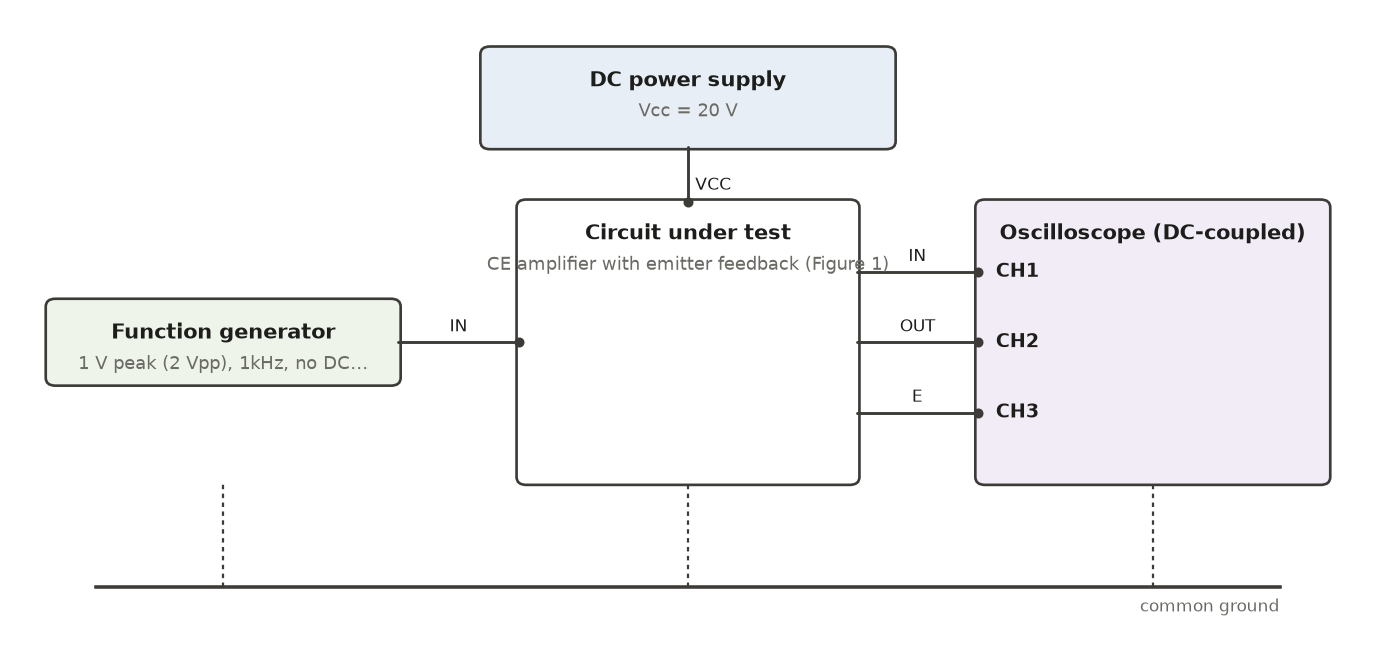
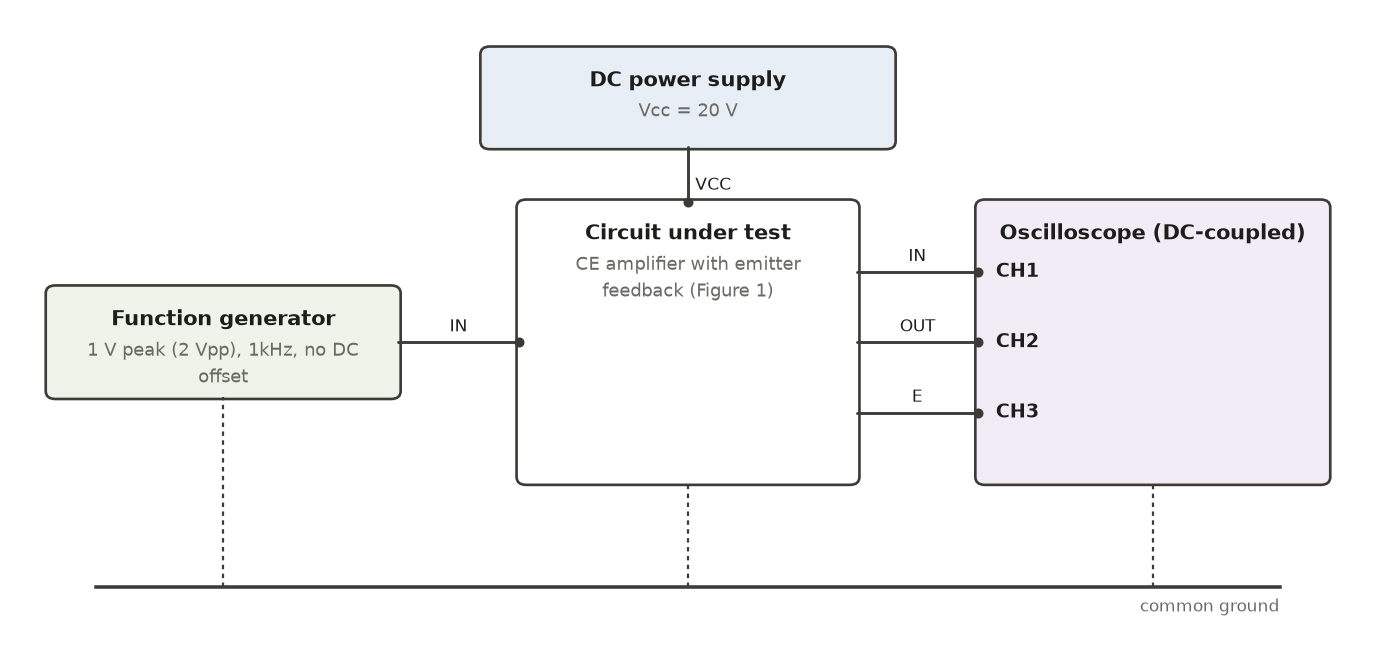
Block diagram: wrap text to the box, ground every source
The circuit-under-test subtitle ran past its box, and the generator text
was cut off at 30 characters. Text now wraps to each box's measured width.
Left-hand sources stopped short of ground (the return ended at the circuit
box's bottom); each now reaches its own box, via a side rail when stacked.

Claude-Session: https://claude.ai/code/session_014e9FWfJ1ndWXWUoB5nQ7B9

Changed region(s): [[0.0312, 0.4275, 0.3125, 0.6107], [0.3438, 0.3664, 0.6562, 0.458]]

diff --git a/blockdiagram.py b/blockdiagram.py
@@ -97,6 +97,31 @@ def from_deck(spec, deck: str, title: str = "") -> TestSet:
 
 # ------------------------------------------------------------------ drawing
 
+def _text_pt(s: str, fontsize: float) -> float:
+    """Rendered width of `s` in points, measured from the font's glyphs."""
+    from matplotlib.font_manager import FontProperties
+    from matplotlib.textpath import TextPath
+    return TextPath((0, 0), s, prop=FontProperties(size=fontsize)).get_extents().width
+
+
+def _fit(text: str, max_pt: float, fontsize: float = 8, max_lines: int = 4) -> list:
+    """Word-wrap `text` so every line renders within `max_pt` points."""
+    lines, cur = [], ""
+    for word in text.split():
+        trial = f"{cur} {word}".strip()
+        if cur and _text_pt(trial, fontsize) > max_pt:
+            lines.append(cur)
+            cur = word
+        else:
+            cur = trial
+    if cur:
+        lines.append(cur)
+    if len(lines) > max_lines:
+        lines = lines[:max_lines]
+        lines[-1] = lines[-1].rstrip(",;") + "…"
+    return lines
+
+
 def _box(ax, x, y, w, h, title, lines, kind):
     from matplotlib.patches import FancyBboxPatch
     ax.add_patch(FancyBboxPatch((x, y), w, h, boxstyle="round,pad=0.02,rounding_size=0.08",
@@ -131,13 +156,19 @@ def draw(ts: TestSet, path: Path) -> Path:
     ax.set_xlim(0, 11)
     ax.set_ylim(-0.9, H)
     ax.axis("off")
+    # Points per data unit, so text can be wrapped to a box's real width.
+    # The axes fill the figure once laid out; every artist sits inside the limits.
+    fig.tight_layout()
+    ppu = ax.get_position().width * fig.get_figwidth() * 72 / 11
+
+    def fits(text, box_w):
+        return _fit(text, (box_w - 0.35) * ppu)
 
     # Circuit under test, centre.
     dx, dw = 4.1, 2.8
     dy, dh = 0.6, H - 2.4
     # A handout's part title is often longer than the box is wide: wrap it.
-    import textwrap
-    _box(ax, dx, dy, dw, dh, "Circuit under test", textwrap.wrap(ts.title, 30)[:4], "dut")
+    _box(ax, dx, dy, dw, dh, "Circuit under test", fits(ts.title, dw), "dut")
 
     # DC supply across the top, one lead per rail into the top of the circuit.
     if ts.supplies:
@@ -153,16 +184,19 @@ def draw(ts: TestSet, path: Path) -> Path:
     # Sources down the left, each wired to its input node. Boxes differ in
     # height (the switch box grows per input), so stack them by height with
     # equal gaps rather than spacing their centres evenly.
-    heights = [0.84 if kind == "gen" else 0.95 + 0.34 * len(item) for kind, item in left]
+    gen_lines = [fits(item[2], 2.9)[:2] if kind == "gen" else [] for kind, item in left]
+    heights = [0.57 + 0.27 * len(gl) if kind == "gen" else 0.95 + 0.34 * len(item)
+               for (kind, item), gl in zip(left, gen_lines, strict=True)]
     gap = max(0.2, (dh - sum(heights)) / (len(left) + 1)) if left else 0
     top = dy + dh
-    for (kind, item), bh in zip(left, heights, strict=True):
+    left_bottoms = []
+    for (kind, item), bh, gl in zip(left, heights, gen_lines, strict=True):
         top -= gap
         bottom = top - bh
+        left_bottoms.append(bottom)
         if kind == "gen":
-            _, node, text = item
-            text = text if len(text) <= 30 else text[:29] + "…"
-            _box(ax, 0.2, bottom, 2.9, bh, "Function generator", [text], "signal")
+            _, node, _ = item
+            _box(ax, 0.2, bottom, 2.9, bh, "Function generator", gl, "signal")
             _wire(ax, [(3.1, bottom + bh / 2), (dx, bottom + bh / 2)], label=node.upper())
         else:
             _box(ax, 0.2, bottom, 2.9, bh, "Logic inputs (switches)",
@@ -188,11 +222,24 @@ def draw(ts: TestSet, path: Path) -> Path:
         ax.text(sx + 1.45, dy + 0.18, "move a probe to read " + ", ".join(
             n.upper() for n in ts.overflow), ha="center", fontsize=7.2, color=MUTED)
 
-    # Common ground: every instrument returns to the circuit's ground.
+    # Common ground: every instrument returns to the circuit's ground, each
+    # return running to its own box. The sources on the left are stacked, so a
+    # drop from an upper one would cross the one below: with more than one,
+    # they share a ground rail up the left edge with a tap into each box.
     gy = -0.45
-    ax.plot([0.6, 10.4], [gy, gy], color=LINE, lw=1.6)
-    for x in ([1.65] if left else []) + [dx + dw / 2, sx + 1.45]:
-        ax.plot([x, x], [gy, dy if x != 1.65 else dy + 0.0], color=LINE, lw=1.0, ls=(0, (2, 2)))
+    dash = dict(color=LINE, lw=1.0, ls=(0, (2, 2)))
+    rail_x = 0.06
+    stacked = len(left_bottoms) > 1
+    ax.plot([rail_x if stacked else 0.6, 10.4], [gy, gy], color=LINE, lw=1.6)
+    if stacked:
+        taps = [b + 0.22 for b in left_bottoms]
+        ax.plot([rail_x, rail_x], [gy, max(taps)], **dash)
+        for y in taps:
+            ax.plot([rail_x, 0.18], [y, y], **dash)
+    elif left_bottoms:
+        ax.plot([1.65, 1.65], [gy, left_bottoms[0]], **dash)
+    for x in (dx + dw / 2, sx + 1.45):
+        ax.plot([x, x], [gy, dy], **dash)
     ax.text(10.4, gy - 0.12, "common ground", ha="right", va="top", fontsize=7.5, color=MUTED)
 
     fig.tight_layout()
